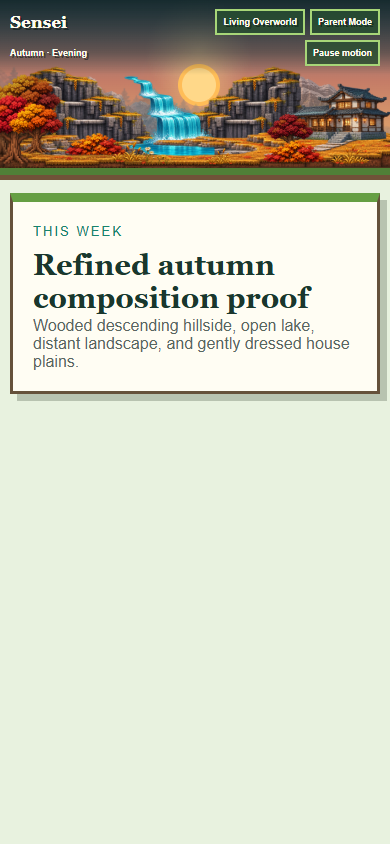
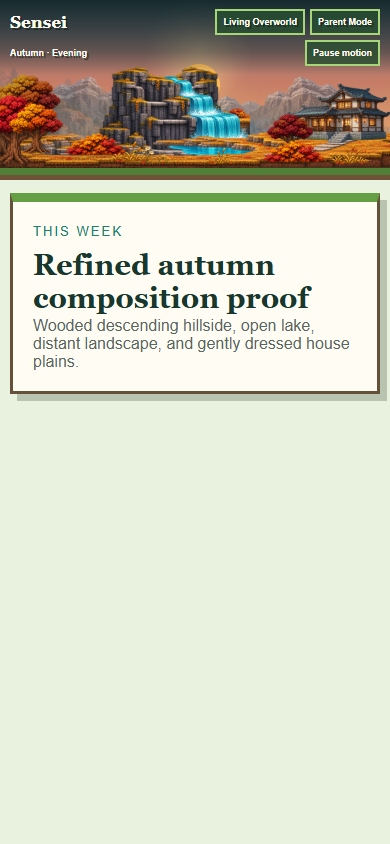
art: converge outcrop peaks above waterfall

Changed region(s): [[0.0923, 0.0616, 0.7692, 0.1848]]

diff --git a/docs/prototypes/living-overworld-autumn-rich.html b/docs/prototypes/living-overworld-autumn-rich.html
@@ -25,8 +25,9 @@
     .waterfall-system { position: absolute; z-index: 6; left: calc(50% - 610px); bottom: -2px; width: 650px; aspect-ratio: 2172 / 724; pointer-events: none; }
     .waterfall-system img { position: absolute; inset: 0; width: 100%; height: 100%; object-fit: contain; }
     .waterfall-system .outcrop { z-index: 1; }
-    .waterfall-system .outcrop.mirror { transform: scaleX(-1); }
-    .waterfall-system .water { z-index: 2; transform: translateX(30%); clip-path: inset(0 65% 0 0); }
+    .waterfall-system .outcrop.left { transform: translateX(-25%) scaleX(-1); }
+    .waterfall-system .outcrop.right { transform: translateX(25%); }
+    .waterfall-system .water { z-index: 2; transform: translateX(42%); clip-path: inset(0 65% 0 0); }
     .meadow { z-index: 6; bottom: -20px; width: 1100px; }
     .meadow.left { right: calc(50% + 500px); }
     .meadow.right { left: calc(50% + 500px); transform: scaleX(-1); }
@@ -97,9 +98,9 @@
     <img class="layer hillside" src="../../public/assets/living-overworld/autumn-modular/terrain-left.png" alt="">
     <img class="layer lake-extension bridge" src="../../public/assets/living-overworld/autumn-structural/water-connected.png" alt="">
     <img class="layer lake-extension main" src="../../public/assets/living-overworld/autumn-structural/water-connected.png" alt="">
-    <div class="waterfall-system" data-geometry="anchored-original-with-mirrored-clone">
-      <img class="outcrop original" src="../../public/assets/living-overworld/autumn-structural/waterfall-outcrop.png" alt="">
-      <img class="outcrop mirror" src="../../public/assets/living-overworld/autumn-structural/waterfall-outcrop.png" alt="">
+    <div class="waterfall-system" data-geometry="inward-facing-outcrops-with-shared-apex">
+      <img class="outcrop left" src="../../public/assets/living-overworld/autumn-structural/waterfall-outcrop.png" alt="">
+      <img class="outcrop right" src="../../public/assets/living-overworld/autumn-structural/waterfall-outcrop.png" alt="">
       <img class="water" src="../../public/assets/living-overworld/autumn-structural/water-connected.png" alt="">
     </div>
     <img class="layer meadow left" src="../../public/assets/living-overworld/autumn-structural/meadow-extension.png" alt="">

diff --git a/docs/LIVING_OVERWORLD_AUTUMN_FINAL_WATERFALL_HANDOFF.md b/docs/LIVING_OVERWORLD_AUTUMN_FINAL_WATERFALL_HANDOFF.md
@@ -8,22 +8,23 @@ The mountain groups, central valley, sun position, house, path, right-side plain
 
 Pixel comparison confines rendered changes to the waterfall/lake assembly region:
 
-- Desktop changed bounds: `x 357–976`, `y 84–285` in the 1920×900 proof.
-- Mobile changed bounds: `x 25–317`, `y 65–162` in the 390×844 proof.
+- Desktop changed bounds: `x 340–1016`, `y 84–285` in the 1920×900 proof.
+- Mobile changed bounds: `x 1–338`, `y 65–162` in the 390×844 proof.
 
 The sun and background implementation are unchanged; the desktop change bounds reach its left edge only because the new right outcrop peak occupies nearby foreground pixels. The house and right plains remain outside the changed region.
 
-## Dual-outcrop result
+## Inward-facing apex result
 
 The mirror-only experiment was rejected because it left the unmodified cascades suspended over the woodland while moving the supporting rock to the center.
 
-The accepted proof uses the original outcrop as the fixed anchor and adds a mirrored clone in the same frame:
+The accepted proof uses two copies of the existing outcrop, facing inward toward the waterfall source:
 
-- The original outcrop retains its approved position, scale, and orientation.
-- The cloned outcrop is horizontally mirrored to form the opposing peak.
-- The two peaks enclose the waterfall rather than moving the whole assembly to one side.
+- The left outcrop is horizontally mirrored and shifted left by 25% of the shared frame.
+- The right outcrop retains the source orientation and is shifted right by 25%.
+- Their upper ledges converge at the center instead of placing both major peaks on the outside.
+- The waterfall source begins directly between those converging ledges, eliminating the floating-water appearance.
 - Preserves the waterfall asset's vertical position, scale, and upper elevation.
-- Uses a cascade-only presentation of the existing water asset, shifted 30% within the shared frame so the three falls descend between the peaks.
+- Uses a cascade-only presentation of the existing water asset, shifted 42% within the shared frame to the common apex.
 - Keeps the water in front of cliff faces while the authored ledges remain visible.
 - Uses two lake-only crops from the same existing water asset: a short bridge from the final foam and the original central lake overlap.
 - Adds no artwork and does not change any source image.
@@ -48,11 +49,11 @@ Detail:
 
 The proof capture validates at 390px, 1100px, 1920px, and 32:9:
 
-- The original outcrop remains untransformed and anchored.
-- Its clone occupies the same frame and is horizontally mirrored.
-- Both outcrop frames match exactly.
+- The left outcrop is mirrored and the right outcrop remains unmirrored.
+- Both outcrops retain identical dimensions, vertical anchors, and scale.
+- Their horizontal separation is exactly 50% of one outcrop frame, placing their peaks inward.
 - The cascade layer retains the same dimensions and vertical anchor as the rock layer.
-- The expected 30% center-cascade alignment is applied.
+- The expected 42% shared-apex cascade alignment is applied.
 - The upper waterfall elevation is unchanged.
 - All assets load.
 - Visible environmental-object bases remain within the scenic frame.
